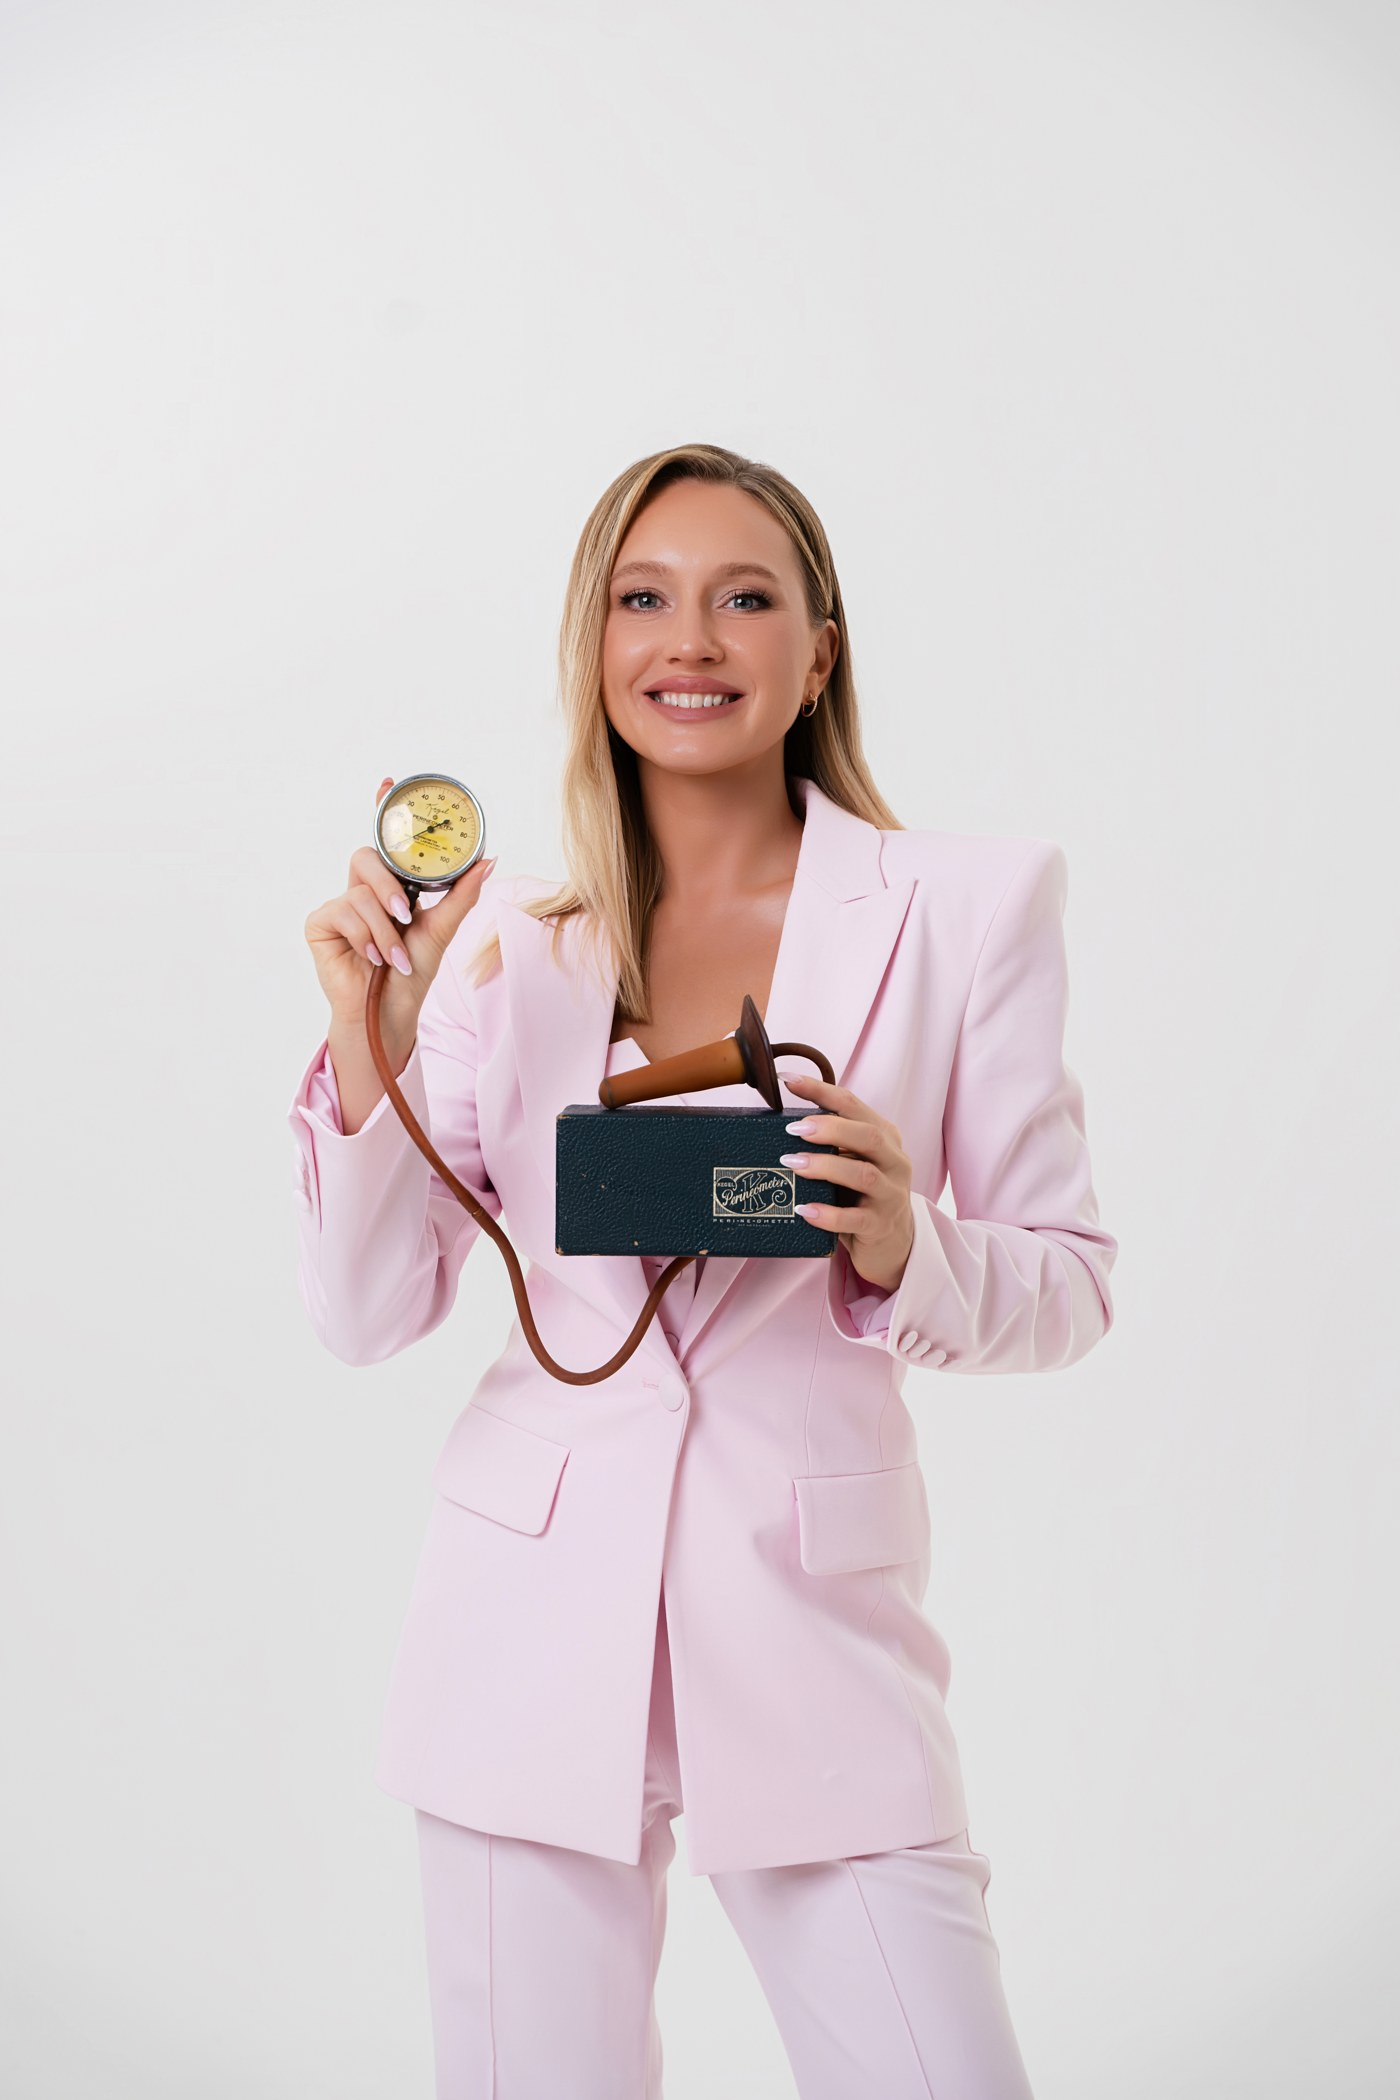
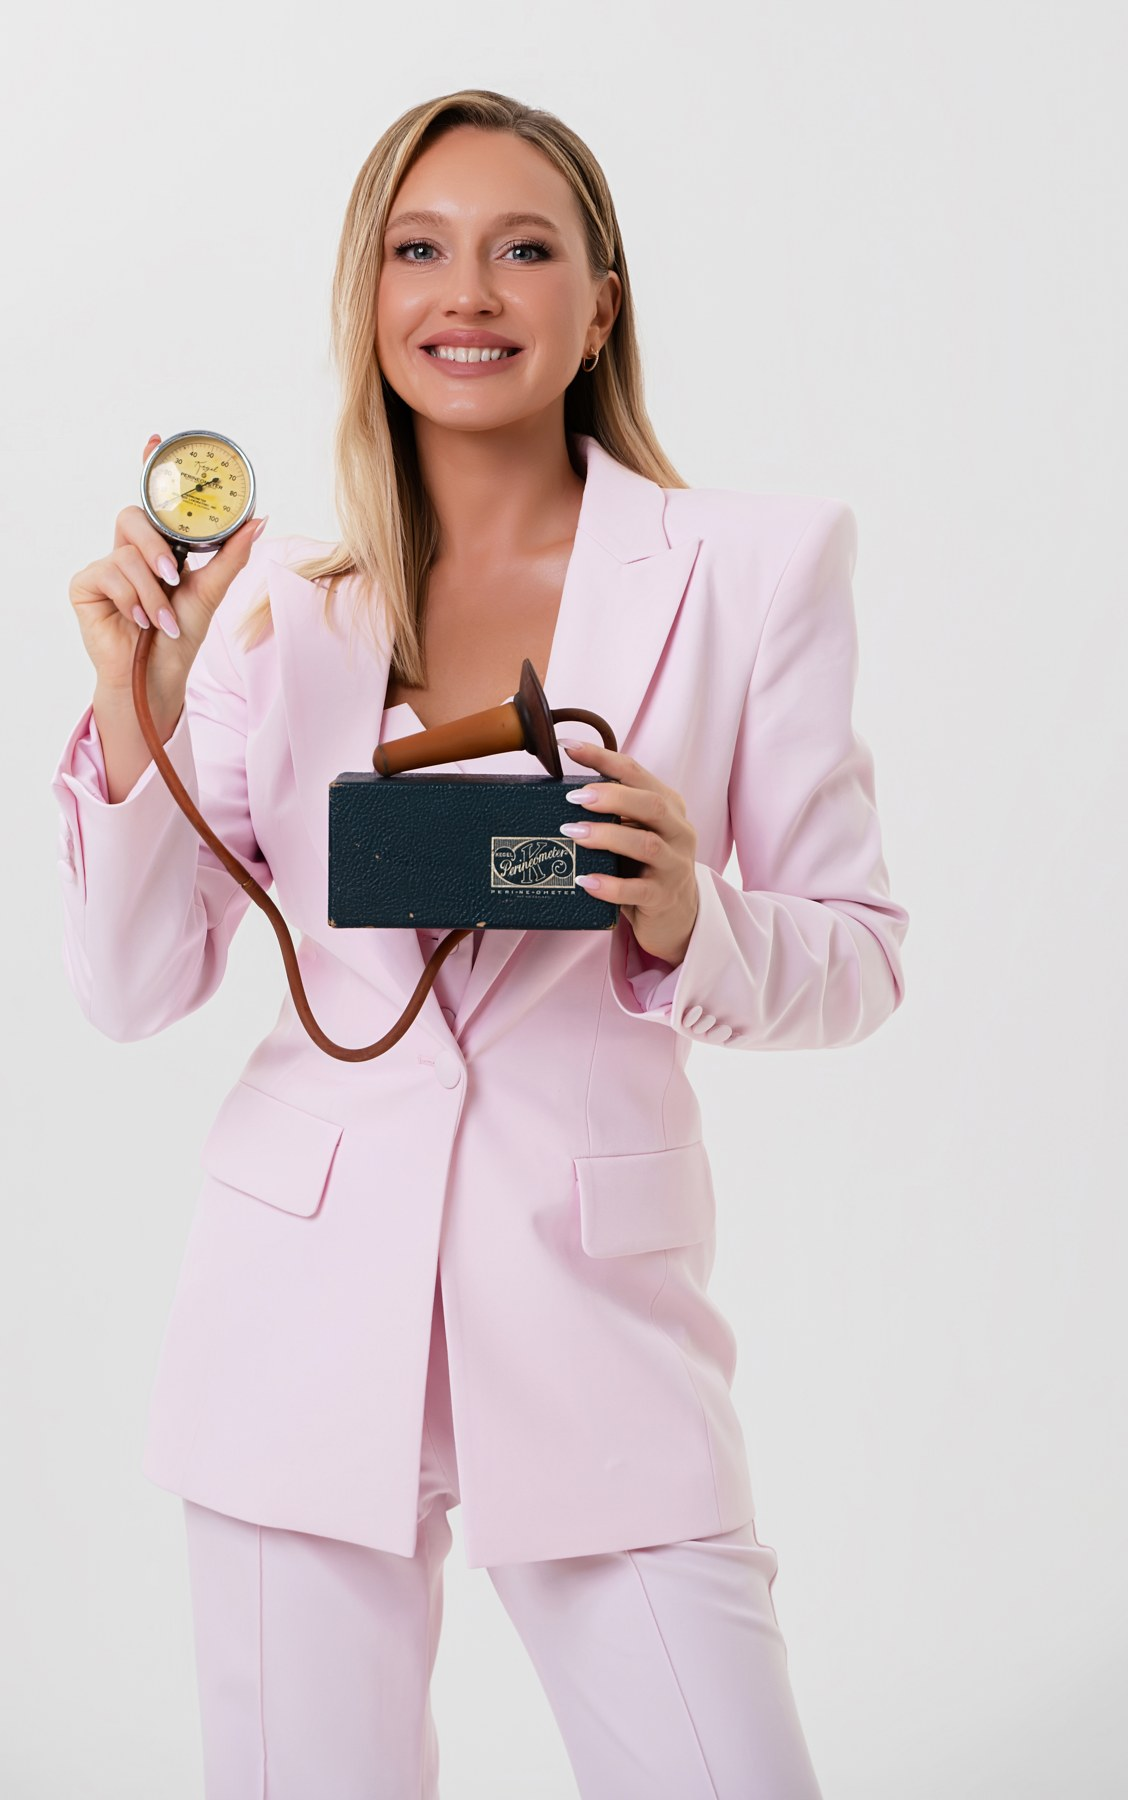
Музей: кадр на главном фото крупнее и выше

diff --git a/site/css/style.css b/site/css/style.css
@@ -1659,7 +1659,7 @@ a.m-card:hover .m-card__more .arr { transform: translateX(5px); }
 .m-intro__note { margin-top: 22px; font-size: 16px; line-height: 1.5; color: var(--text); max-width: 520px; }
 .m-intro__note--top { margin: 0 0 14px; font-size: 17px; }
 .m-intro__photo { position: relative; min-height: 460px; border-radius: 30px; overflow: hidden; border: 1px solid var(--line-2); }
-.m-intro__photo img { position: absolute; inset: 0; width: 100%; height: 100%; object-fit: cover; object-position: center 26%; }
+.m-intro__photo img { position: absolute; inset: 0; width: 100%; height: 100%; object-fit: cover; object-position: center 12%; }
 .m-intro__badge { position: absolute; right: 22px; top: 22px; z-index: 2; font-size: 12px; padding: 12px 15px; }
 
 .cat-grid { display: grid; grid-template-columns: repeat(3, 1fr); gap: 14px; }
